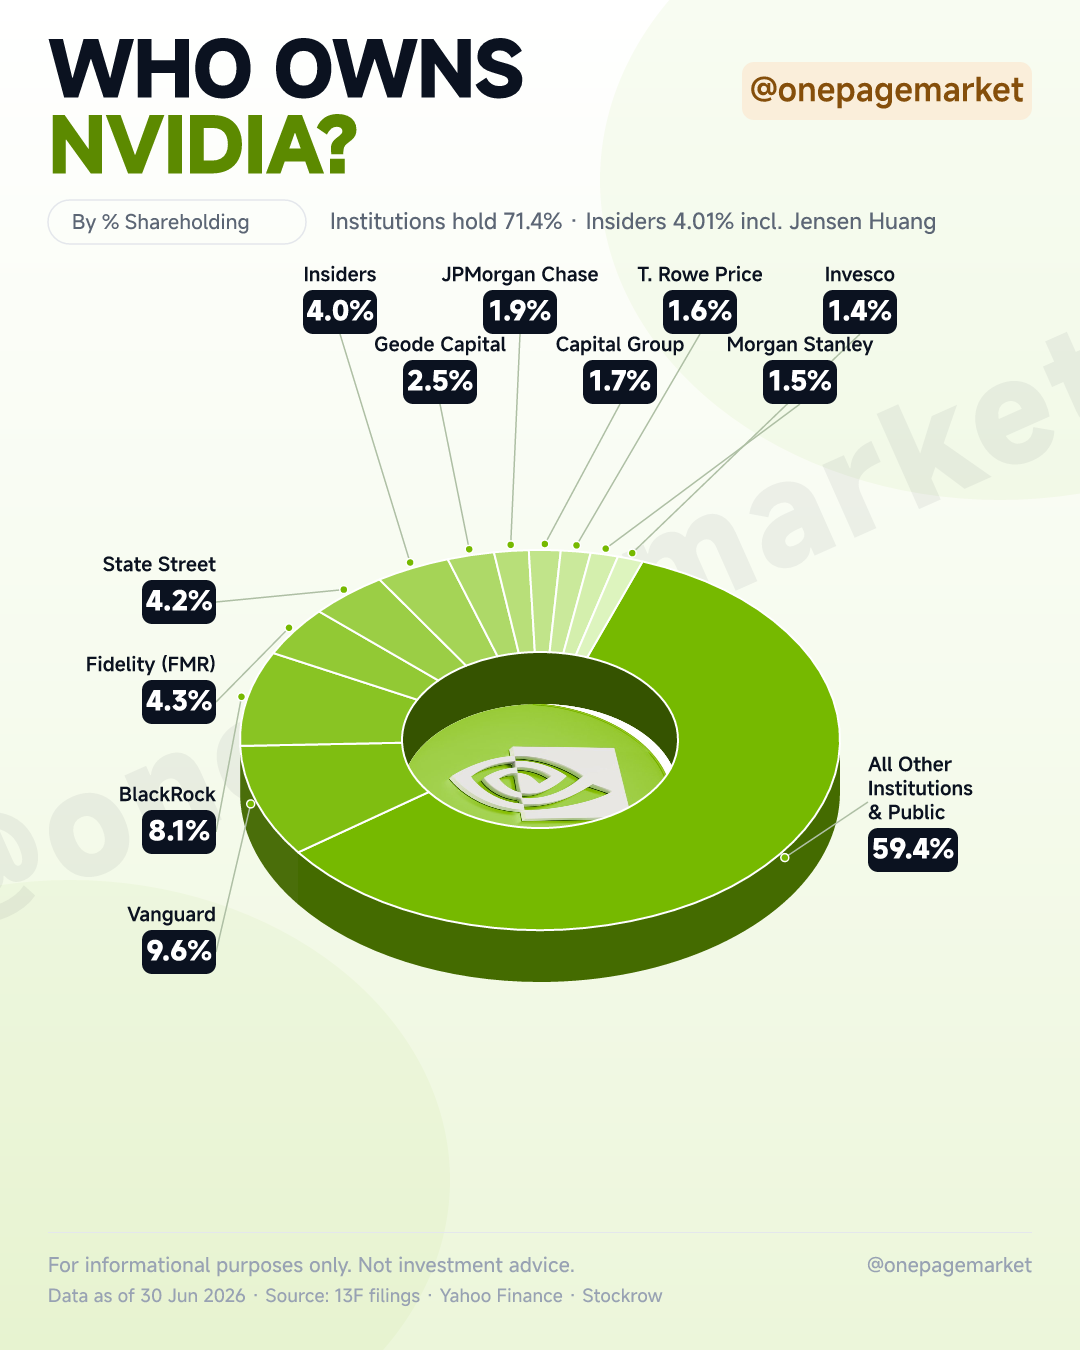
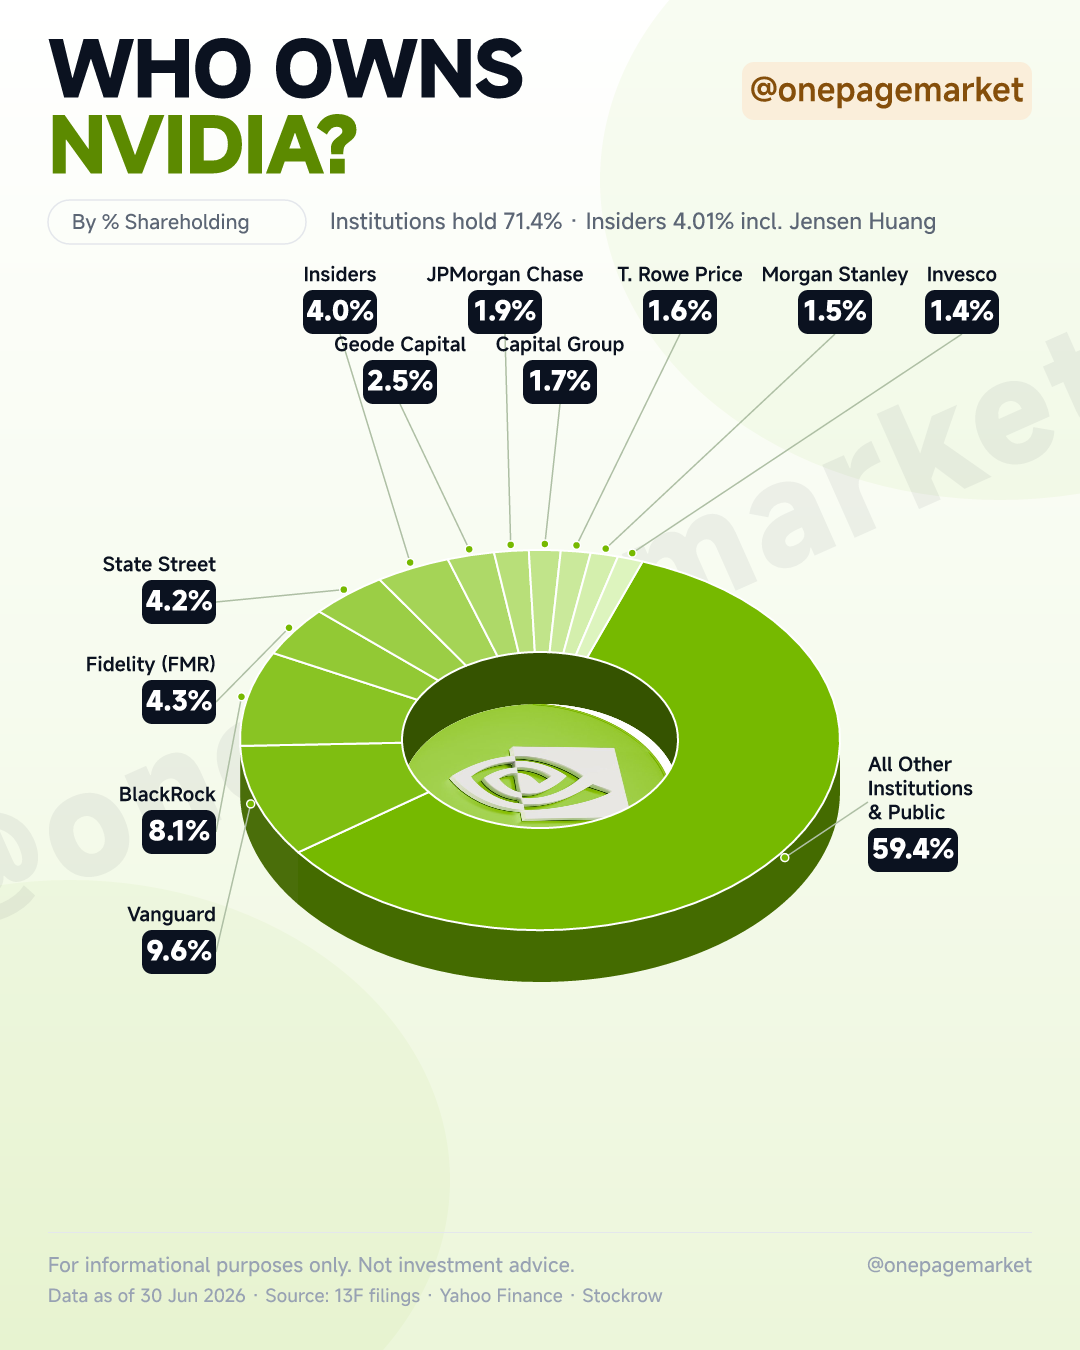
NVDA: fix MS/Invesco leader-line crossing; gallery: per-image second-level timestamps, same-day groups sorted by newest

diff --git a/docs/index.html b/docs/index.html
@@ -34,6 +34,8 @@
   .shots { display:flex; flex-direction:column; gap:14px; }
   .shot { position:relative; }
   .shot img { width:100%; height:auto; border-radius:12px; border:1px solid var(--line); display:block; }
+  .shot .ts { display:block; text-align:center; font-size:11px; color:var(--dim);
+    font-variant-numeric:tabular-nums; margin-top:5px; letter-spacing:.3px; }
   .link { display:block; text-decoration:none; }
   .morebar { padding:22px 0 4px; text-align:center; }
   .morebar button { width:100%; padding:14px; font-size:14.5px; color:var(--gray);
@@ -43,10 +45,10 @@
 </style></head>
 <body>
 <header><h1>@onepagemarket</h1>
-<div class="sub">每日行情卡片 · 更新於 2026-10-21 18:03</div></header>
+<div class="sub">每日行情卡片 · 更新於 2026-10-21 18:37</div></header>
 <div class="rule"></div>
 <main>
-<section class="sec"><div class="ghead"><b>On Deck</b><span class="day">Wed, Oct 21 · 1 張</span></div><div class="tweet"><button class="copy" data-t="On Deck for today: Atlanta Fed GDPNow; Housing Starts; Building Permits. 91 companies report — PM, TMO, ABT before the open, META, TSLA, LRCX after the close. 🧵">複製文案</button><p>On Deck for today: Atlanta Fed GDPNow; Housing Starts; Building Permits. 91 companies report — PM, TMO, ABT before the open, META, TSLA, LRCX after the close. 🧵</p><span class="len">160 字</span></div><div class="shots"><div class="shot"><a class="link" href="img/on-deck-20261021.png" target="_blank"><img src="img/on-deck-20261021.png" loading="lazy" alt="on-deck-20261021.png"></a></div></div></section><section class="sec"><div class="ghead"><b>Week Ahead</b><span class="day">Wed, Oct 21 · 1 張</span></div><div class="tweet"><button class="copy" data-t="This week in US markets: Mon IMF Meetings, Tue NAHB Housing Market Index, Wed Atlanta Fed GDPNow. Key earnings: GE, NFLX, PM, META, PG, WDC. Full calendar in the card. 🧵">複製文案</button><p>This week in US markets: Mon IMF Meetings, Tue NAHB Housing Market Index, Wed Atlanta Fed GDPNow. Key earnings: GE, NFLX, PM, META, PG, WDC. Full calendar in the card. 🧵</p><span class="len">169 字</span></div><div class="shots"><div class="shot"><a class="link" href="img/week-ahead-20261021.png" target="_blank"><img src="img/week-ahead-20261021.png" loading="lazy" alt="week-ahead-20261021.png"></a></div></div></section><section class="sec"><div class="ghead"><b>Who Owns NVDA?</b><span class="day">Wed, Oct 21 · 1 張</span></div><div class="tweet"><button class="copy" data-t="Who owns NVIDIA? Institutions hold 71.4% — top: Vanguard 9.6%, BlackRock 8.1%, Fidelity 4.3%, State Street 4.2%. Insiders (incl. Jensen Huang) 4.0%. Everyone else: 59.4%. 🧵">複製文案</button><p>Who owns NVIDIA? Institutions hold 71.4% — top: Vanguard 9.6%, BlackRock 8.1%, Fidelity 4.3%, State Street 4.2%. Insiders (incl. Jensen Huang) 4.0%. Everyone else: 59.4%. 🧵</p><span class="len">172 字</span></div><div class="shots"><div class="shot"><a class="link" href="img/who-owns-nvda-20261021.png" target="_blank"><img src="img/who-owns-nvda-20261021.png" loading="lazy" alt="who-owns-nvda-20261021.png"></a></div></div></section><section class="sec"><div class="ghead"><b>On Deck</b><span class="day">Tue, Oct 20 · 1 張</span></div><div class="tweet"><button class="copy" data-t="On Deck for today: NAHB Housing Market Index; 3-Month Bill Auction; 6-Month Bill Auction. 55 companies report — GE, RTX, MMM before the open, NFLX, ISRG, CB after the close. 🧵">複製文案</button><p>On Deck for today: NAHB Housing Market Index; 3-Month Bill Auction; 6-Month Bill Auction. 55 companies report — GE, RTX, MMM before the open, NFLX, ISRG, CB after the close. 🧵</p><span class="len">175 字</span></div><div class="shots"><div class="shot"><a class="link" href="img/on-deck-20261020.png" target="_blank"><img src="img/on-deck-20261020.png" loading="lazy" alt="on-deck-20261020.png"></a></div></div></section><section class="sec"><div class="ghead"><b>Winners &amp; Losers</b><span class="day">Tue, Oct 20 · 1 張</span></div><div class="tweet"><button class="copy" data-t="Week in review: top gainers ASTS +38.4%, RKLB +29.1%, SOFI +23.7%. Biggest drops: LULU -28.6%, DG -24.3%, MRNA -21.7%. Universe: 503 most-traded US names. 🧵">複製文案</button><p>Week in review: top gainers ASTS +38.4%, RKLB +29.1%, SOFI +23.7%. Biggest drops: LULU -28.6%, DG -24.3%, MRNA -21.7%. Universe: 503 most-traded US names. 🧵</p><span class="len">156 字</span></div><div class="shots"><div class="shot"><a class="link" href="img/winners-losers-20261020.png" target="_blank"><img src="img/winners-losers-20261020.png" loading="lazy" alt="winners-losers-20261020.png"></a></div></div></section><section class="sec"><div class="ghead"><b>The Close</b><span class="day">Tue, Oct 20 · 1 張</span></div><div class="tweet"><button class="copy" data-t="The Close: S&amp;P 500 +0.28% · Nasdaq -0.02% · Russell 2000 +1.65%. Most traded: MU, NVDA, AMZN. Breadth 35% advancers. 🧵">複製文案</button><p>The Close: S&amp;P 500 +0.28% · Nasdaq -0.02% · Russell 2000 +1.65%. Most traded: MU, NVDA, AMZN. Breadth 35% advancers. 🧵</p><span class="len">118 字</span></div><div class="shots"><div class="shot"><a class="link" href="img/the-close-20261020.png" target="_blank"><img src="img/the-close-20261020.png" loading="lazy" alt="the-close-20261020.png"></a></div></div></section><section class="sec"><div class="ghead"><b>The Close</b><span class="day">Mon, Oct 19 · 1 張</span></div><div class="tweet"><button class="copy" data-t="The Close: S&amp;P 500 +0.28% · Nasdaq -0.02% · Russell 2000 +1.65%. Most traded: MU, NVDA, AMZN. Breadth 35% advancers. 🧵">複製文案</button><p>The Close: S&amp;P 500 +0.28% · Nasdaq -0.02% · Russell 2000 +1.65%. Most traded: MU, NVDA, AMZN. Breadth 35% advancers. 🧵</p><span class="len">118 字</span></div><div class="shots"><div class="shot"><a class="link" href="img/the-close-20261019.png" target="_blank"><img src="img/the-close-20261019.png" loading="lazy" alt="the-close-20261019.png"></a></div></div></section>
+<section class="sec"><div class="ghead"><b>Who Owns NVDA?</b><span class="day">Wed, Oct 21 · 1 張</span></div><div class="tweet"><button class="copy" data-t="Who owns NVIDIA? Institutions hold 71.4% — top: Vanguard 9.6%, BlackRock 8.1%, Fidelity 4.3%, State Street 4.2%. Insiders (incl. Jensen Huang) 4.0%. Everyone else: 59.4%. 🧵">複製文案</button><p>Who owns NVIDIA? Institutions hold 71.4% — top: Vanguard 9.6%, BlackRock 8.1%, Fidelity 4.3%, State Street 4.2%. Insiders (incl. Jensen Huang) 4.0%. Everyone else: 59.4%. 🧵</p><span class="len">172 字</span></div><div class="shots"><div class="shot"><a class="link" href="img/who-owns-nvda-20261021.png" target="_blank"><img src="img/who-owns-nvda-20261021.png" loading="lazy" alt="who-owns-nvda-20261021.png"></a><span class="ts">2026-10-21 18:37:58</span></div></div></section><section class="sec"><div class="ghead"><b>On Deck</b><span class="day">Wed, Oct 21 · 1 張</span></div><div class="tweet"><button class="copy" data-t="On Deck for today: Atlanta Fed GDPNow; Housing Starts; Building Permits. 91 companies report — PM, TMO, ABT before the open, META, TSLA, LRCX after the close. 🧵">複製文案</button><p>On Deck for today: Atlanta Fed GDPNow; Housing Starts; Building Permits. 91 companies report — PM, TMO, ABT before the open, META, TSLA, LRCX after the close. 🧵</p><span class="len">160 字</span></div><div class="shots"><div class="shot"><a class="link" href="img/on-deck-20261021.png" target="_blank"><img src="img/on-deck-20261021.png" loading="lazy" alt="on-deck-20261021.png"></a><span class="ts">2026-10-21 13:57:18</span></div></div></section><section class="sec"><div class="ghead"><b>Week Ahead</b><span class="day">Wed, Oct 21 · 1 張</span></div><div class="tweet"><button class="copy" data-t="This week in US markets: Mon IMF Meetings, Tue NAHB Housing Market Index, Wed Atlanta Fed GDPNow. Key earnings: GE, NFLX, PM, META, PG, WDC. Full calendar in the card. 🧵">複製文案</button><p>This week in US markets: Mon IMF Meetings, Tue NAHB Housing Market Index, Wed Atlanta Fed GDPNow. Key earnings: GE, NFLX, PM, META, PG, WDC. Full calendar in the card. 🧵</p><span class="len">169 字</span></div><div class="shots"><div class="shot"><a class="link" href="img/week-ahead-20261021.png" target="_blank"><img src="img/week-ahead-20261021.png" loading="lazy" alt="week-ahead-20261021.png"></a><span class="ts">2026-10-21 13:55:01</span></div></div></section><section class="sec"><div class="ghead"><b>Winners &amp; Losers</b><span class="day">Tue, Oct 20 · 1 張</span></div><div class="tweet"><button class="copy" data-t="Week in review: top gainers ASTS +38.4%, RKLB +29.1%, SOFI +23.7%. Biggest drops: LULU -28.6%, DG -24.3%, MRNA -21.7%. Universe: 503 most-traded US names. 🧵">複製文案</button><p>Week in review: top gainers ASTS +38.4%, RKLB +29.1%, SOFI +23.7%. Biggest drops: LULU -28.6%, DG -24.3%, MRNA -21.7%. Universe: 503 most-traded US names. 🧵</p><span class="len">156 字</span></div><div class="shots"><div class="shot"><a class="link" href="img/winners-losers-20261020.png" target="_blank"><img src="img/winners-losers-20261020.png" loading="lazy" alt="winners-losers-20261020.png"></a><span class="ts">2026-10-21 13:56:03</span></div></div></section><section class="sec"><div class="ghead"><b>The Close</b><span class="day">Tue, Oct 20 · 1 張</span></div><div class="tweet"><button class="copy" data-t="The Close: S&amp;P 500 +0.28% · Nasdaq -0.02% · Russell 2000 +1.65%. Most traded: MU, NVDA, AMZN. Breadth 35% advancers. 🧵">複製文案</button><p>The Close: S&amp;P 500 +0.28% · Nasdaq -0.02% · Russell 2000 +1.65%. Most traded: MU, NVDA, AMZN. Breadth 35% advancers. 🧵</p><span class="len">118 字</span></div><div class="shots"><div class="shot"><a class="link" href="img/the-close-20261020.png" target="_blank"><img src="img/the-close-20261020.png" loading="lazy" alt="the-close-20261020.png"></a><span class="ts">2026-10-21 09:33:35</span></div></div></section><section class="sec"><div class="ghead"><b>On Deck</b><span class="day">Tue, Oct 20 · 1 張</span></div><div class="tweet"><button class="copy" data-t="On Deck for today: NAHB Housing Market Index; 3-Month Bill Auction; 6-Month Bill Auction. 55 companies report — GE, RTX, MMM before the open, NFLX, ISRG, CB after the close. 🧵">複製文案</button><p>On Deck for today: NAHB Housing Market Index; 3-Month Bill Auction; 6-Month Bill Auction. 55 companies report — GE, RTX, MMM before the open, NFLX, ISRG, CB after the close. 🧵</p><span class="len">175 字</span></div><div class="shots"><div class="shot"><a class="link" href="img/on-deck-20261020.png" target="_blank"><img src="img/on-deck-20261020.png" loading="lazy" alt="on-deck-20261020.png"></a><span class="ts">2026-10-20 19:51:22</span></div></div></section><section class="sec"><div class="ghead"><b>The Close</b><span class="day">Mon, Oct 19 · 1 張</span></div><div class="tweet"><button class="copy" data-t="The Close: S&amp;P 500 +0.28% · Nasdaq -0.02% · Russell 2000 +1.65%. Most traded: MU, NVDA, AMZN. Breadth 35% advancers. 🧵">複製文案</button><p>The Close: S&amp;P 500 +0.28% · Nasdaq -0.02% · Russell 2000 +1.65%. Most traded: MU, NVDA, AMZN. Breadth 35% advancers. 🧵</p><span class="len">118 字</span></div><div class="shots"><div class="shot"><a class="link" href="img/the-close-20261019.png" target="_blank"><img src="img/the-close-20261019.png" loading="lazy" alt="the-close-20261019.png"></a><span class="ts">2026-10-20 19:51:22</span></div></div></section>
 
 <p class="hint">點圖開原尺寸 · 長按可直接複製或存圖</p>
 </main>

diff --git a/scripts/build_ownership.js b/scripts/build_ownership.js
@@ -194,15 +194,15 @@ const drawLabel = (s, x, bt, anchor, elbowR = 0) => {
   block(bt, s.name.split('|'), s.disp, anchor, x);
 };
 
-// 頂部外排（bt=260，離環遠）
+// 頂部外排（bt=260，離環遠）—— 12 點右側三個小扇區全進外排、按角度順序，線不交叉
 drawLabel(segByName['Insiders'], 340, 260, 'middle');
-drawLabel(segByName['JPMorgan Chase'], 520, 260, 'middle');
-drawLabel(segByName['T. Rowe Price'], 700, 260, 'middle');
-drawLabel(segByName['Invesco'], 860, 260, 'middle');
+drawLabel(segByName['JPMorgan Chase'], 505, 260, 'middle');
+drawLabel(segByName['T. Rowe Price'], 680, 260, 'middle');
+drawLabel(segByName['Morgan Stanley'], 835, 260, 'middle');
+drawLabel(segByName['Invesco'], 962, 260, 'middle');
 // 頂部內排（bt=330，靠近環）
-drawLabel(segByName['Geode Capital'], 440, 330, 'middle');
-drawLabel(segByName['Capital Group'], 620, 330, 'middle');
-drawLabel(segByName['Morgan Stanley'], 800, 330, 'middle');
+drawLabel(segByName['Geode Capital'], 400, 330, 'middle');
+drawLabel(segByName['Capital Group'], 560, 330, 'middle');
 // 左欄 4（全部單段直線，貼環外緣通過不交叉）
 drawLabel(segByName['State Street'], 216, 550, 'end');
 drawLabel(segByName['Fidelity (FMR)'], 216, 650, 'end');

diff --git a/scripts/build_gallery.py b/scripts/build_gallery.py
@@ -72,8 +72,11 @@ for p in sorted(glob.glob(os.path.join(OUT, '*.png'))):
     shutil.copy2(p, os.path.join(IMG, name))
     cap_file = os.path.join(OUT, f'caption-{name[:-4]}.txt')
     caption = open(cap_file, encoding='utf-8').read().strip() if os.path.exists(cap_file) else ''
+    mt = os.stat(p).st_mtime
+    ts = datetime.datetime.fromtimestamp(mt).strftime('%Y-%m-%d %H:%M:%S')
     items.append({'img': f'img/{name}', 'name': name, 'kind': kind, 'date': d,
-                  'post': POST_OF.get(kind, kind), 'caption': caption})
+                  'post': POST_OF.get(kind, kind), 'caption': caption,
+                  'mtime': mt, 'time': ts})
 
 # 清掉 docs/img 裡已不在 out/ 的舊檔
 keep = {i['name'] for i in items}
@@ -88,15 +91,16 @@ for f in os.listdir(IMG):
     if f not in keep:
         os.remove(os.path.join(IMG, f))
 
-# 按貼文分組
+# 按貼文分組；同日內按「組內最新圖的生成時間」倒序（新出的卡種排最前）
 groups = {}
 for it in items:
     groups.setdefault((it['post'], it['date']), []).append(it)
 for g in groups.values():
     g.sort(key=lambda x: ORDER.index(x['kind']) if x['kind'] in ORDER else 99)
 
+glatest = {k: max(i['mtime'] for i in v) for k, v in groups.items()}
 ordered = sorted(groups.items(),
-                 key=lambda kv: (kv[0][1], 0 if kv[0][0] == 'theclose' else 1),
+                 key=lambda kv: (kv[0][1], glatest[kv[0]]),
                  reverse=True)
 
 cutoff_open = datetime.date.today() - datetime.timedelta(days=OPEN_DAYS - 1)
@@ -126,7 +130,8 @@ def group_html(key, imgs, idx):
         src = f'src="{i["img"]}"' if live else 'data-src="' + i['img'] + '"'
         shots.append(
             f'<div class="shot"><a class="link" href="{i["img"]}" target="_blank">'
-            f'<img {src} loading="lazy" alt="{i["name"]}"></a></div>')
+            f'<img {src} loading="lazy" alt="{i["name"]}"></a>'
+            f'<span class="ts">{i["time"]}</span></div>')
     cls = 'sec' if live else 'sec late'
     hid = '' if live else ' hidden'
     return f'<section class="{cls}"{hid}>{head}{block}<div class="shots">{"".join(shots)}</div></section>'
@@ -174,6 +179,8 @@ html = f'''<!DOCTYPE html>
   .shots {{ display:flex; flex-direction:column; gap:14px; }}
   .shot {{ position:relative; }}
   .shot img {{ width:100%; height:auto; border-radius:12px; border:1px solid var(--line); display:block; }}
+  .shot .ts {{ display:block; text-align:center; font-size:11px; color:var(--dim);
+    font-variant-numeric:tabular-nums; margin-top:5px; letter-spacing:.3px; }}
   .link {{ display:block; text-decoration:none; }}
   .morebar {{ padding:22px 0 4px; text-align:center; }}
   .morebar button {{ width:100%; padding:14px; font-size:14.5px; color:var(--gray);
